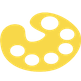
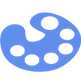
更换图标

diff --git a/src/pages/index/components/draw.vue b/src/pages/index/components/draw.vue
@@ -16,8 +16,8 @@
       </view>
       <view class="recommended-word-box">
         <view class="recommended-word" @click="recommendedWord">
-          <text class="iconfont icon-qiehuan"></text>
-          点击试试推荐词
+          试试推荐词
+          <text class="iconfont icon-shuaxin"></text>
         </view>
       </view>
       <!-- 模型选择 -->
@@ -122,7 +122,7 @@
           <view class="res-img-box" v-for="(item,index) in generatesImages" :key="index" @click="clickImg(generatesImages,index)">
             <image :src="item" mode="aspectFit"></image>
             <view class="download" @click.stop="clickDown(item,index)">
-              <text class="iconfont icon-xiazai"></text>
+<!--              <text class="iconfont icon-xiazai"></text>-->
             </view>
           </view>
         </view>
@@ -416,15 +416,11 @@ export default {
   .recommended-word {
     display: flex;
     align-items: center;
-    font-size: 13px;
+    font-size: 12px;
     border: 1rpx solid $huiyu-color-main;
     padding: 6rpx 12rpx;
     border-radius: 10rpx;
     color: $huiyu-color-main;
-
-    text {
-      margin-right: 5rpx;
-    }
   }
 }
 

diff --git a/src/static/icon/iconfont.css b/src/static/icon/iconfont.css
@@ -1,0 +1,18 @@
+@font-face {
+  font-family: "iconfont"; /* Project id 4135260 */
+  src: url('@/static/icon/iconfont.woff2') format('woff2'),
+  url('@/static/icon/iconfont.woff') format('woff'),
+  url('@/static/icon/iconfont.ttf') format('truetype');
+}
+
+.iconfont {
+  font-family: "iconfont" !important;
+  font-size: 16px;
+  font-style: normal;
+  -webkit-font-smoothing: antialiased;
+  -moz-osx-font-smoothing: grayscale;
+}
+
+.icon-shuaxin:before {
+  content: "\e68c";
+}

diff --git a/src/App.vue b/src/App.vue
@@ -32,7 +32,7 @@ export default {
 <style>
 /*每个页面公共css */
 @import "static/css/base.scss";
-@import "static/font/iconfont.css";
+@import "static/icon/iconfont.css";
 
 ::v-deep .uni-toast {
   background-color: #fff !important;
